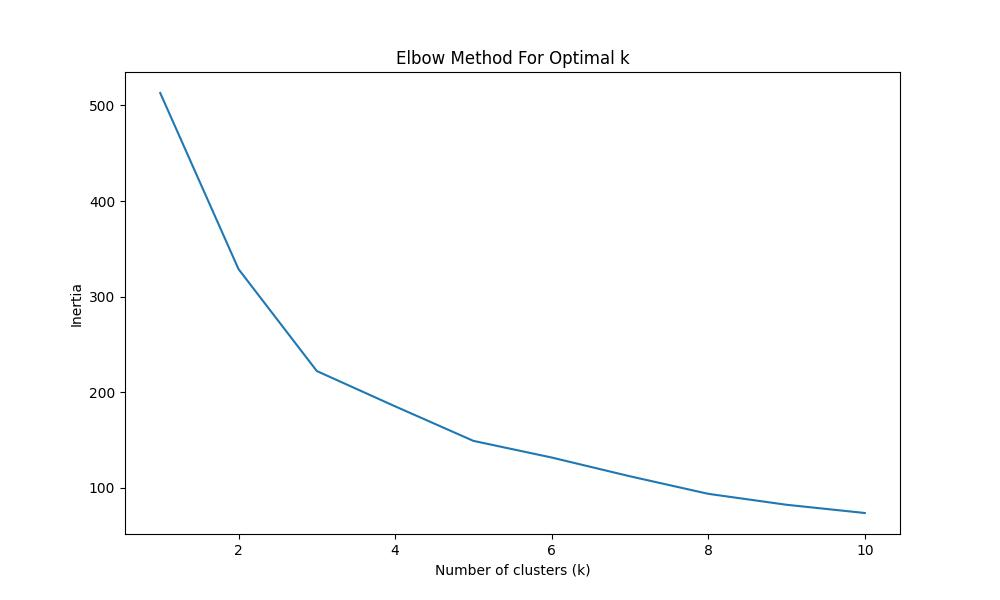
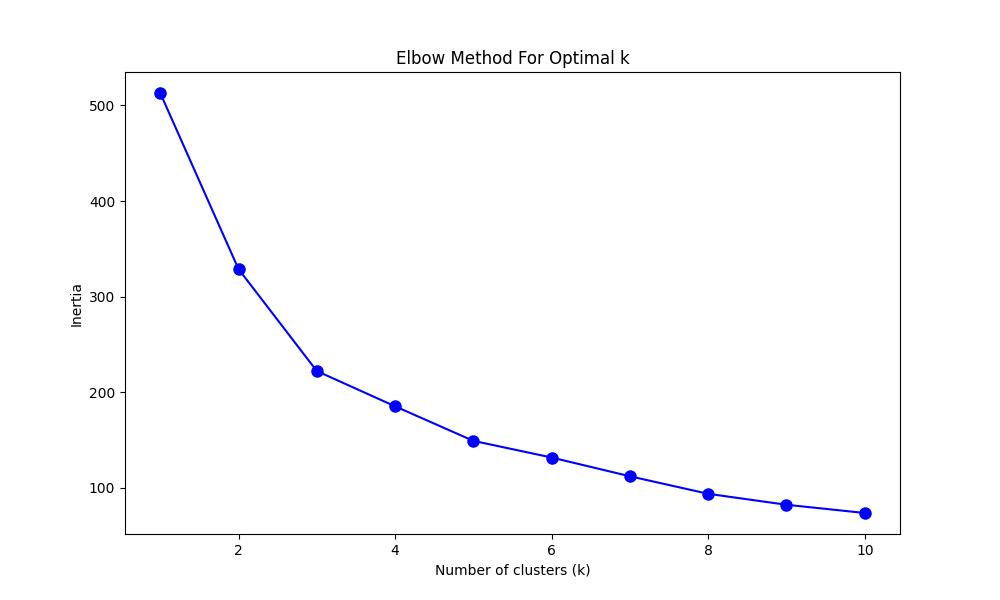
fixed matplotlib dots

diff --git a/kmeans.py b/kmeans.py
@@ -23,7 +23,7 @@ for k in K:
     inertia.append(kmeans.inertia_)
 
 plt.figure(figsize=(10, 6))
-plt.plot(K, inertia, markersize=8)
+plt.plot(K, inertia, "bo-", markersize=8)
 plt.xlabel('Number of clusters (k)')
 plt.ylabel('Inertia')
 plt.title('Elbow Method For Optimal k')
@@ -31,7 +31,7 @@ plt.savefig('./figures/elbow.jpg')
 plt.close()
 
 
-optimal_k = 4
+optimal_k = 3
 
 #kmeans
 kmeans = KMeans(n_clusters=optimal_k, random_state=42)
